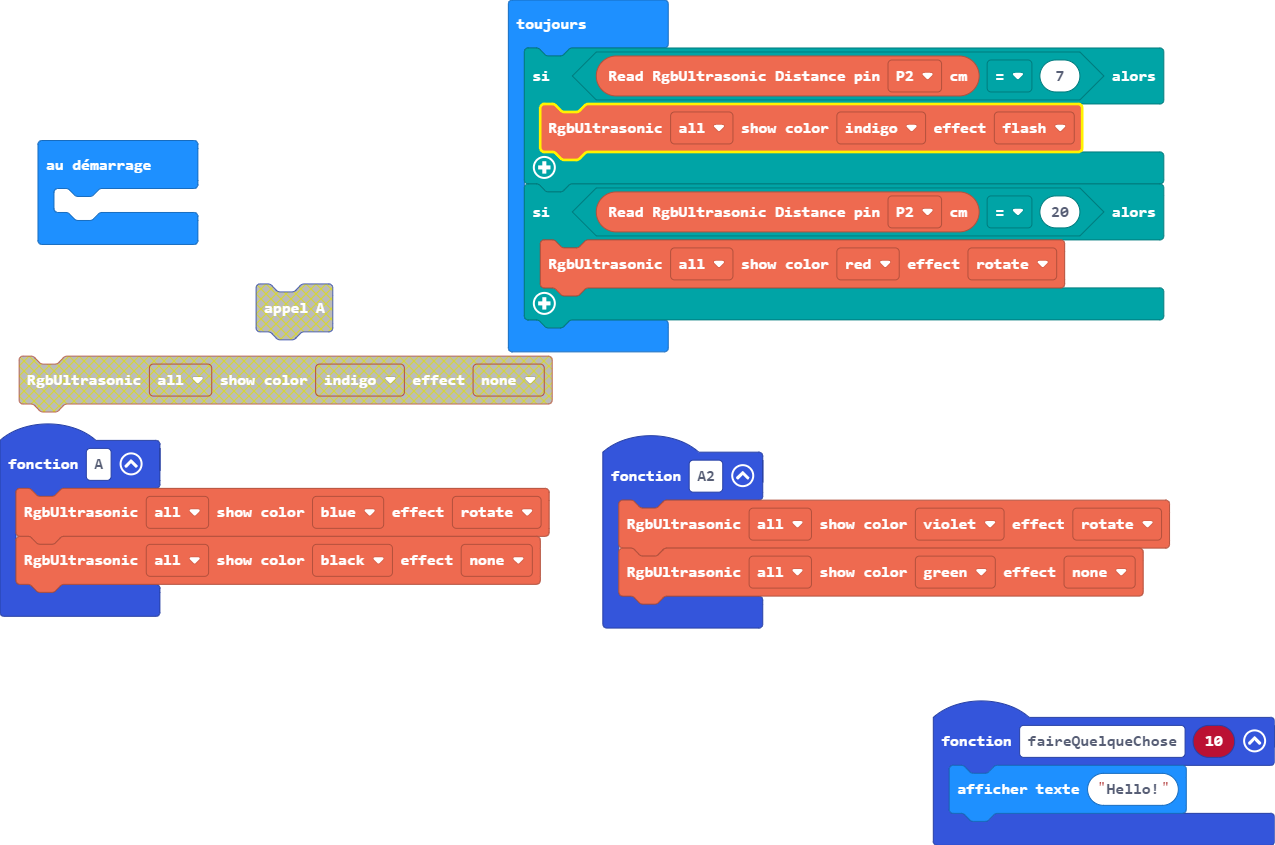
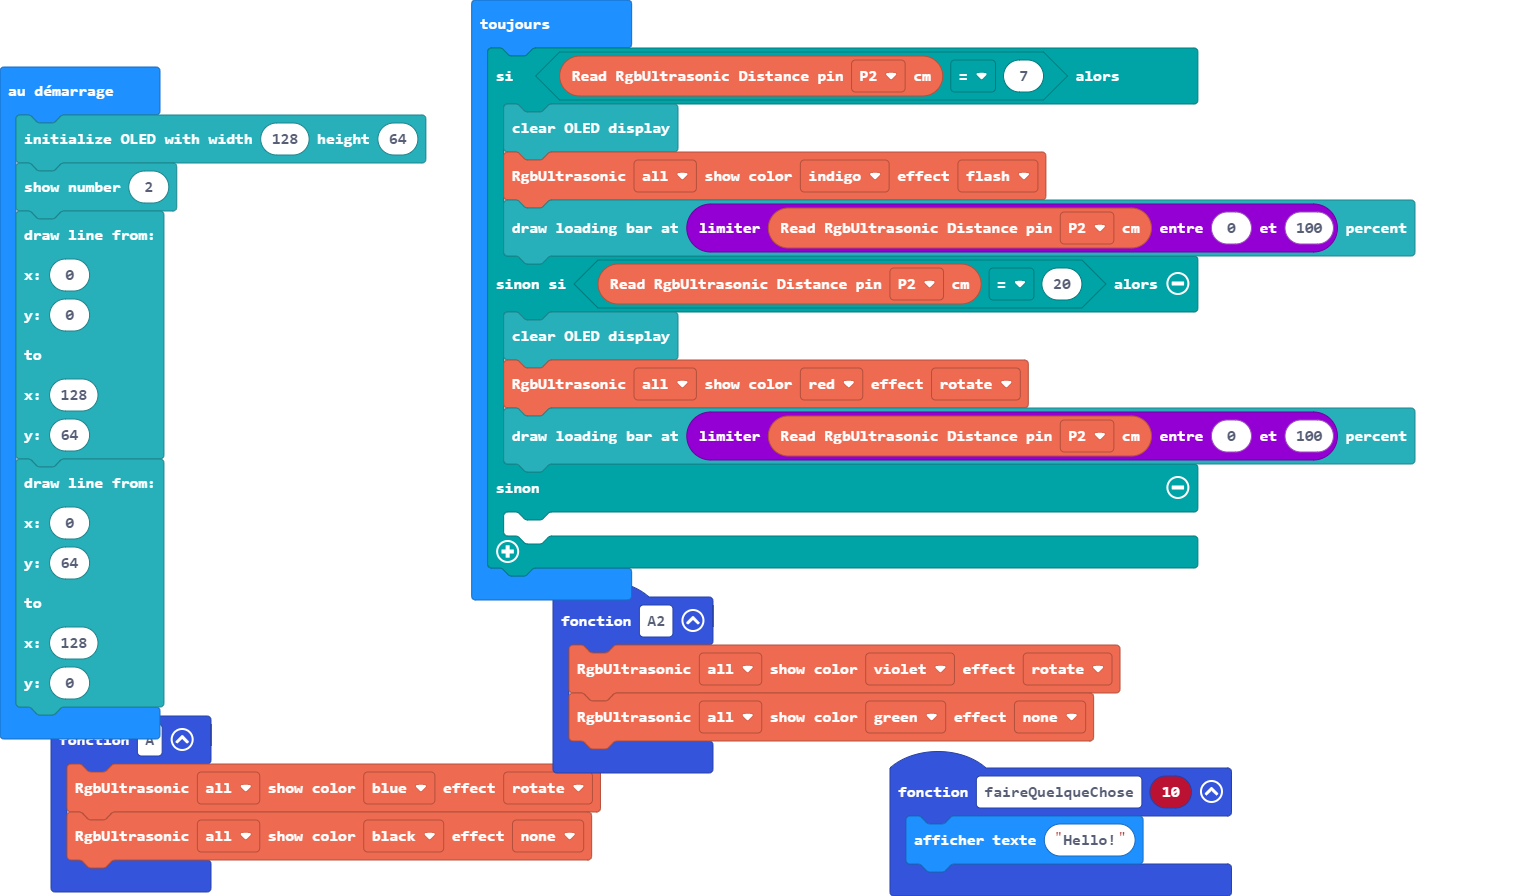
Mise à jour pxt.json, main.blocks, main.ts

diff --git a/main.ts b/main.ts
@@ -9,11 +9,30 @@ function A2 () {
     magicbit.RUS_04(RgbUltrasonics.All, RgbColors.Violet, ColorEffect.Rotate)
     magicbit.RUS_04(RgbUltrasonics.All, RgbColors.Green, ColorEffect.None)
 }
+OLED.init(128, 64)
+OLED.writeNumNewLine(2)
+OLED.drawLine(
+0,
+0,
+128,
+64
+)
+OLED.drawLine(
+0,
+64,
+128,
+0
+)
 basic.forever(function () {
     if (magicbit.Ultrasonic(DigitalPin.P2) == 7) {
+        OLED.clear()
         magicbit.RUS_04(RgbUltrasonics.All, RgbColors.Indigo, ColorEffect.Flash)
-    }
-    if (magicbit.Ultrasonic(DigitalPin.P2) == 20) {
+        OLED.drawLoading(Math.constrain(magicbit.Ultrasonic(DigitalPin.P2), 0, 100))
+    } else if (magicbit.Ultrasonic(DigitalPin.P2) == 20) {
+        OLED.clear()
         magicbit.RUS_04(RgbUltrasonics.All, RgbColors.Red, ColorEffect.Rotate)
+        OLED.drawLoading(Math.constrain(magicbit.Ultrasonic(DigitalPin.P2), 0, 100))
+    } else {
+    	
     }
 })
